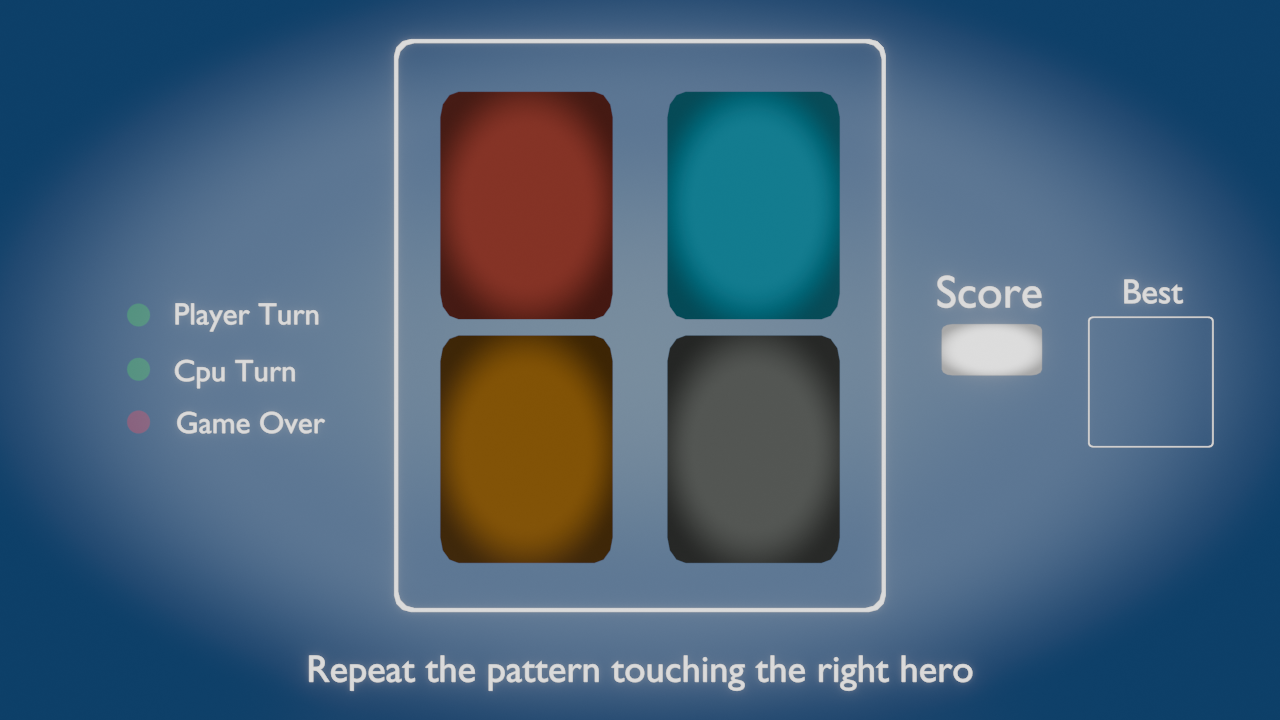
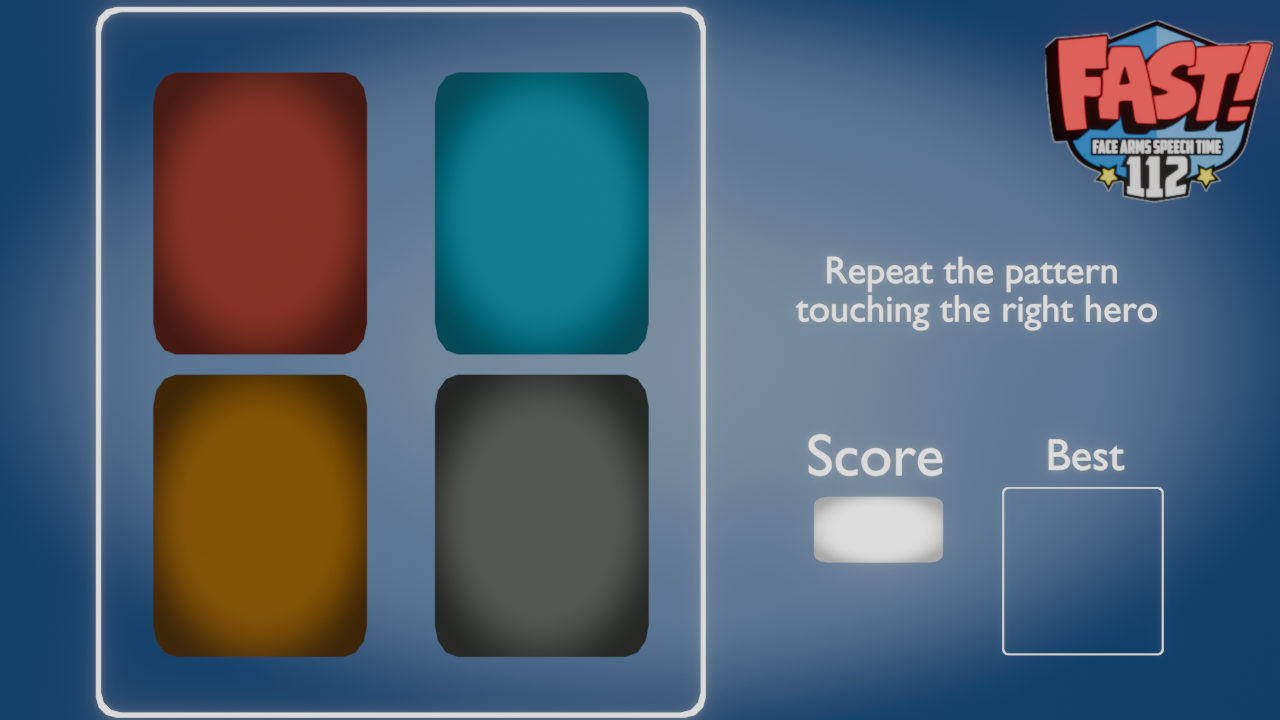
Design change

diff --git a/js/scenes/gameScene.js b/js/scenes/gameScene.js
@@ -6,7 +6,7 @@ gameScene.init = function () {
     this.gWidth = this.game.config.width;
     this.gHeight = this.game.config.height;
     this.s = this.gWidth > 640 ? 2 : 1;
-    console.log(this.gWidth, this.gHeight, this.s)
+   // console.log(this.gWidth, this.gHeight, this.s)
     // if (this.sys.game.device.os.desktop) {
     //     console.log("desktop")
     //     this.s = 2;
@@ -62,18 +62,18 @@ gameScene.create = function () {
     this.createBtns();
 
     //create LEDs
-    this.createLeds();
+    //this.createLeds();
 
     // this.initGame();
 };
 
 gameScene.createScene = function () {
     let bgImage = this.s > 1 ? 'bg2' : 'bg';
-    let spriteScale = this.s > 1 ? 0.92 : 0.45;
-    let xLeft = 263;
-    let xRight = 376;
-    let yTop = 102.5;
-    let yBottom = 225;
+    let spriteScale = this.s > 1 ? 1.125 : 0.45;
+    let xLeft = 131;
+    let xRight = 270;
+    let yTop = 106;
+    let yBottom = 257;
 
     let bg = this.add.image(0, 0, bgImage).setOrigin(0);
     let spriteImages = ['Timmy', 'Sophia', 'Frank', 'Armando'];
@@ -116,9 +116,9 @@ gameScene.createScene = function () {
 gameScene.createText = function () {
     let styleDark = { fontFamily: 'cutedino', fontSize: 20 * this.s, color: '#000000', lineSpacing: -10 * this.s };
 
-    this.txtScore = this.add.text(495 * this.s, 175 * this.s, '--', styleDark)
+    this.txtScore = this.add.text(440 * this.s, 265 * this.s, '--', styleDark)
         .setOrigin(0.5, 0.5);
-    this.txtHighScore = this.add.text(580 * this.s, 175 * this.s, `${this.highScore}`, styleDark).setColor('#ffffff')
+    this.txtHighScore = this.add.text(540 * this.s, 265 * this.s, `${this.highScore}`, styleDark).setColor('#ffffff')
         .setOrigin(0.5, 0.5)
         .setAlpha(0.5);
 
@@ -145,7 +145,7 @@ gameScene.createText = function () {
 }
 
 gameScene.createBtns = function () {
-    this.btnPlay = this.add.sprite(500 * this.s, 50 * this.s, 'btplay').setInteractive();
+    this.btnPlay = this.add.sprite(400 * this.s, 50 * this.s, 'btplay').setInteractive();
     this.btnPlay.setScale(0.08 * this.s);
     this.btnPlay.on('pointerdown', () => {
         if (!this.onGame) {
@@ -216,7 +216,7 @@ gameScene.createLeds = function () {
 
 gameScene.initGame = function () {
     let t = this;
-    t.turnOffLed(this.ledGameOver);
+    //t.turnOffLed(this.ledGameOver);
     t.score = -1;
     t.upScore();
     t.onGame = true;
@@ -227,7 +227,7 @@ gameScene.endGame = function () {
     let t = this;
     t.onGame = false;
     t.disableButtons();
-    t.pulseLed(this.ledGameOver);
+    //t.pulseLed(this.ledGameOver);
     t.notes = [Phaser.Math.RND.integerInRange(0, 3)];
     t.pulseButtons();
 
@@ -237,8 +237,8 @@ gameScene.endGame = function () {
         if (t.score > t.highScore) {
             t.setHighScore(t.score);
         }
-        this.turnOffLed(this.ledCpu);
-        this.turnOffLed(this.ledPlayer);
+        //this.turnOffLed(this.ledCpu);
+        //this.turnOffLed(this.ledPlayer);
         t.score = 0;
         // if (t.btPlay.alpha == 1) {
         //     t.btPlay.toggle();
@@ -252,8 +252,8 @@ gameScene.playNotes = function () {
     let currentNote = this.currentNote;
     let clicked = this.clicked.bind(this, true);
     let flashButtons = this.flashButtons.bind(this);
-    let turnOffLed = this.turnOffLed.bind(this, this.ledCpu);
-    let turnOnLed = this.turnOnLed.bind(this, this.ledPlayer);
+    //let turnOffLed = this.turnOffLed.bind(this, this.ledCpu);
+    //let turnOnLed = this.turnOnLed.bind(this, this.ledPlayer);
     let playerTurn = this.playerTurn.bind(this);
 
     let index = notes[currentNote];
@@ -262,8 +262,8 @@ gameScene.playNotes = function () {
 
         this.sound.play('Reset');
         flashButtons();
-        turnOffLed();
-        turnOnLed();
+       // turnOffLed();
+        //turnOnLed();
         playerTurn();
     } else {
         clicked(index);
@@ -317,7 +317,7 @@ gameScene.clicked = function (isMachine, index) {
     else {
         if (!this.checkNote()) {
             this.sound.play('Wrong');
-            this.turnOffLed(this.ledPlayer);
+           // this.turnOffLed(this.ledPlayer);
             this.endGame();
             return;
         }
@@ -333,8 +333,8 @@ gameScene.clicked = function (isMachine, index) {
             }, 400);
             setTimeout(() => {
                 if (!this.onGame) return;
-                this.turnOffLed(this.ledPlayer);
-                this.turnOnLed(this.ledCpu);
+               // this.turnOffLed(this.ledPlayer);
+                //this.turnOnLed(this.ledCpu);
                 this.machineTurn();
             }, 600);
         }
